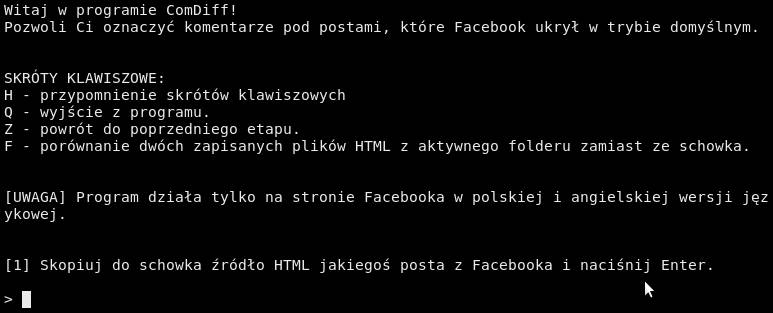
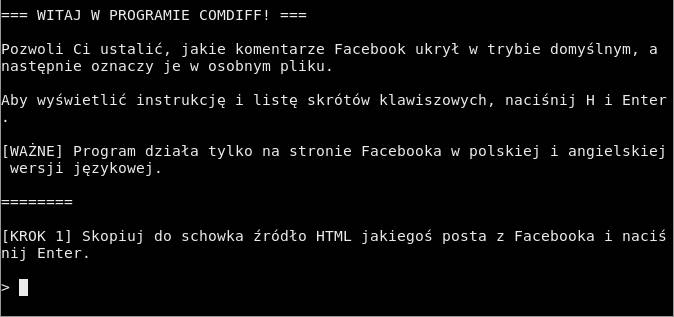
Added some privacy-preserving functions to the Comdiff script, made instructions more readable, updated image from the tutorial

Changed region(s): [[0.0, 0.0, 1.0, 1.0], [0.8101, 0.8914, 0.8412, 0.9489]]

diff --git a/assets/skrypty/comdiff.py b/assets/skrypty/comdiff.py
@@ -41,12 +41,16 @@ basicConfig( format='\n%(message)s\n' )
 def show( text ):
     print('', text, '', sep='\n')
 
-ERR = ''
 ADD_POST_AUTHOR_TO_FILENAME = True
+REMOVE_DEEPLINKS = True
+KEEP_NEUTRALIZED_DEEPLINKS = False
+VERBOSE_MODE = False
 
 ##################################
 # Importing BeautifulSoup for HTML
 ##################################
+
+ERR = ''
 
 BeautifulSoup, FeatureNotFound = None, None
 try:
@@ -177,7 +181,7 @@ def _get_ids_from_link( link: str ):
     '''
     l = urlparse(link)
     params = [p for p in l.query.split('&')
-              if not p.startswith('__cft__[0]')
+              if not p.startswith('__cft__[') #not only [0] since 2023
               and not p.startswith('__tn__')]
 
     # Get parent- and reply-level comment ids
@@ -322,8 +326,8 @@ def find_censored( post1, post2 ):
                 'niepełna')
 
     all_coms_num = len(annotated)
-    print(f'Wśród {all_coms_num} komentarzy było '
-          f'{all_coms_num-len(reduced)} domyślnie ukrytych')
+    print('Znaleziono komentarze ukryte w domyślnym trybie wyświetlania '
+          f'({all_coms_num-len(reduced)} / {all_coms_num})')
     return annotated
 
 
@@ -347,7 +351,6 @@ def _remove_large_vertical_padding( post ):
     
     for tag in tags_with_style_attr:
         style_info = tag.attrs['style']
-        print('S', style_info)
         pad = padding_finder.search( style_info )
         if pad:
             full_pad_info = pad.group(0)
@@ -391,6 +394,7 @@ def save_html_summary( annotated_comments, post1, post2 ):
         
     formatted = '\n'.join( formatted )
     content = (f'<html>\n<head>\n'
+               '<meta charset="utf-8">\n'
                f'<style>{FB_CSS}\n{CENSOR_CSS}\n</style>\n'
                '<link rel="stylesheet" href="fb.css" type="text/css"/></head>'
                f'<body style="margin-left:10px;margin-right:10px">\n'
@@ -400,7 +404,7 @@ def save_html_summary( annotated_comments, post1, post2 ):
     if not outpath.parent.exists(): outpath.parent.mkdir()
     with open( outpath, 'w') as out: out.write( content )
     
-    show(f'[OK]\nZapisano oznaczone komentarze do pliku:\n{outpath}')
+    show(f'[OK]\nZapisano wszystkie komentarze do pliku:\n{outpath}')
     return outpath
     
 ###########
@@ -566,12 +570,13 @@ def _get_post_data( post ):
     if not post_link: warning('Nie ustalono linku do posta')
     else:
         post_data['link'] = post_link
-        print(f'Ustalony link do posta:\n{post_link}')
+
+        if VERBOSE_MODE: print(f'Ustalony link do posta:\n{post_link}')
         
         author_link = _get_post_author( post, post_link, links_with_tags )
         post_data['author_link'] = author_link
         
-        if author_link:
+        if author_link and VERBOSE_MODE:
             print(f'Ustalony link do autora posta:\n{author_link}')
             res = re.search( 'www.facebook.com/(.*?)$', author_link)
             if res: post_data['author'] = res.group(1)
@@ -593,10 +598,10 @@ def _get_comment_number( post ):
             res = re.search('(\d+) komentarz', text)
             if res: return int( res.group(1) )
 
-    if not com_num:
-        warning('[BRAK] Nie znaleziono informacji o łącznej liczbie '
-                'komentarzy pod postem. Skrypt nie sprawdzi po pierwszym '
-                'rozwinięciu, czy są jakieś ukryte albo usunięte')
+##    if not com_num:
+##        warning('[BRAK] Nie znaleziono informacji o łącznej liczbie '
+##                'komentarzy pod postem. Skrypt nie sprawdzi po pierwszym '
+##                'rozwinięciu, czy są jakieś ukryte albo usunięte')
     return com_num
 
 
@@ -624,8 +629,71 @@ def _get_display_mode( post ):
                       
     if not dmode: warning('[BRAK] Nie ustalono trybu wyświetlania komentarzy')
     return dmode
-    
 
+
+def _remove_tracking_parameters( post ):
+    '''
+    Removes weird, possibly tracking parameters from all
+    links within the post and its comments. Leaves valuable parameters,
+    such as comment_id, unchanged.
+    '''
+    TRACKING_PARAMS = ('__tn__','utm_source','utm_campaign','fbclid')
+                       
+    hrefs = post.find_all( 'a', attrs={'href':True} )
+    cleaned_n = 0
+    for h in hrefs:
+        l = urlparse( h.attrs['href'] )
+        nontracking_params = [p for p in l.query.split('&')
+                              if not p.startswith('__cft__[')
+                              and not p.split('=')[0] in TRACKING_PARAMS]
+        params = '&'.join( nontracking_params )
+        params = f'?{params}' if params else ''
+        nontracking_link = f'{l.scheme}://{l.netloc}{l.path}{params}'
+        if nontracking_link != l:
+            cleaned_n += 1
+
+        # Replace the link in HTML element with the clean version
+        h.attrs['href'] = nontracking_link
+
+    if cleaned_n:
+        print('[INFO] Usunięto potencjalnie śledzące parametry z niektórych '
+              f'linków ({cleaned_n}).')
+        
+
+def _remove_src_deeplinks( post ):
+    '''
+    Removes all "src" attributes from images, so that the browser does
+    not attempt to fetch them from Facebook's website.
+    Works in two modes - by default, the "src" parameter is completely
+    removed. But if the KEEP_NEUTRALIZED_DEEPLINKS flag is set to True,
+    the "src" value is moved to a different "old_src" variable,
+    and it can be accessed programmatically in the future.
+    '''
+    if not REMOVE_DEEPLINKS and not KEEP_NEUTRALIZED_DEEPLINKS: return
+
+    xl = 'xlink:href'
+    external_elements = post.find_all( True, attrs={xl:True} )
+
+    changed_n = 0  
+    for tag in external_elements:
+        if REMOVE_DEEPLINKS:
+            tag.attrs[ xl ] = ''
+        elif KEEP_NEUTRALIZED_DEEPLINKS:
+            for tag in external_elements:
+                src = tag.attrs[ xl ]
+                tag.attrs['old_src'] = src
+                tag.attrs[ xl ] = ''
+
+        changed_n += 1
+
+    if changed_n:
+        if REMOVE_DEEPLINKS: change = 'Usunięto z posta'
+        elif KEEP_NEUTRALIZED_DEEPLINKS:
+            change = 'Zneutralizowano, ale zachowano'
+        print(f'[INFO] {change} linki do elementów zewnętrznych, '
+              f'głównie ikon użytkowników ({changed_n})')
+    
+    
 class FacebookPost:
     '''A class corresponding to a Facebook post along with its comments'''
 
@@ -719,10 +787,10 @@ def _display_greeting():
          'Pozwoli Ci ustalić, jakie komentarze Facebook ukrył w trybie '
          'domyślnym, a następnie oznaczy je w osobnym pliku.\n\n'
          'Aby wyświetlić instrukcję i listę skrótów klawiszowych, naciśnij '
-         'H i Enter')
+         'H i Enter.')
           
-    show('[WAŻNE] Program działa tylko na stronie Facebooka w polskiej '
-         'i angielskiej wersji językowej.')
+    print('[WAŻNE] Program działa tylko na stronie Facebooka w polskiej '
+         'i angielskiej wersji językowej.\n')
 
 
 def _display_help():
@@ -757,6 +825,7 @@ def _prompt_for_input( post1, post2 ):
     posts have been analyzed by the script.
     '''    
     if not post1:
+        print('='*8)
         show('[KROK 1] Skopiuj do schowka źródło HTML jakiegoś posta '
               'z Facebooka i naciśnij Enter.')
     else:
@@ -764,7 +833,8 @@ def _prompt_for_input( post1, post2 ):
         if post1.mode:
             if post1.mode == 'Wszystkie':
                 other_post_mode = 'Najtrafniejsze'
-                  
+
+        print('='*8)       
         show(f'[KROK 2] Teraz wybierz opcję "{other_post_mode}" pod tym '
               'samym postem, skopiuj jego kod HTML i naciśnij Enter.')
         
@@ -785,6 +855,7 @@ def _finalize_and_show_prompt( post1, post2 ):
     if censored and SAVE_REPORT:
         saved_file = save_html_summary( censored, post1, post2 )
 
+    print('='*8)
     m = ('[KONIEC] Możesz nacisnąć Enter, żeby opuścić program.\n'
          'Możesz też nacisnąć Z i Enter, żeby wrócić do poprzedniego kroku')
     if saved_file:
@@ -881,9 +952,6 @@ def _get_facebook_post( clip_text, post1 ):
         # if comments: parse_coms_only #TODO
 
     post, comments = post_info
-    if comments:
-        print(f'\n[OK]\nUzyskano komentarze! Ich liczba: {len(comments)}\n')
-        
     return FacebookPost( post, comments )
     
 
@@ -921,12 +989,20 @@ def run_interactive_mode():
 
         clip_text = clipboard_get()
         post = _get_facebook_post( clip_text, post1 )
+        
         if not post: continue
+
+        # Experimental, privacy-preserving transformations
+        _remove_src_deeplinks( post.html )
+        _remove_tracking_parameters( post.html )
+
+        print('\n[OK]\nPrzygotowano post! Liczba komentarzy: '
+              f'{len(post.comments)}\n')
             
         if not post1: post1 = post
         else: post2 = post
 
-        # After we get two proper posts with comments, we can compare them
+        # After we get two proper posts with comments, we compare them
         
         if post1 and post2:
             
@@ -946,7 +1022,7 @@ def run_interactive_mode():
 if __name__ == '__main__':
 
     if ERR:
-        error( ERR ) # Show close to the user, stop for a while
+        error( ERR ) # Pause and show it close to the bottom
         input()
     
     if LOADED_ALL_SUCCESSFULLY:
